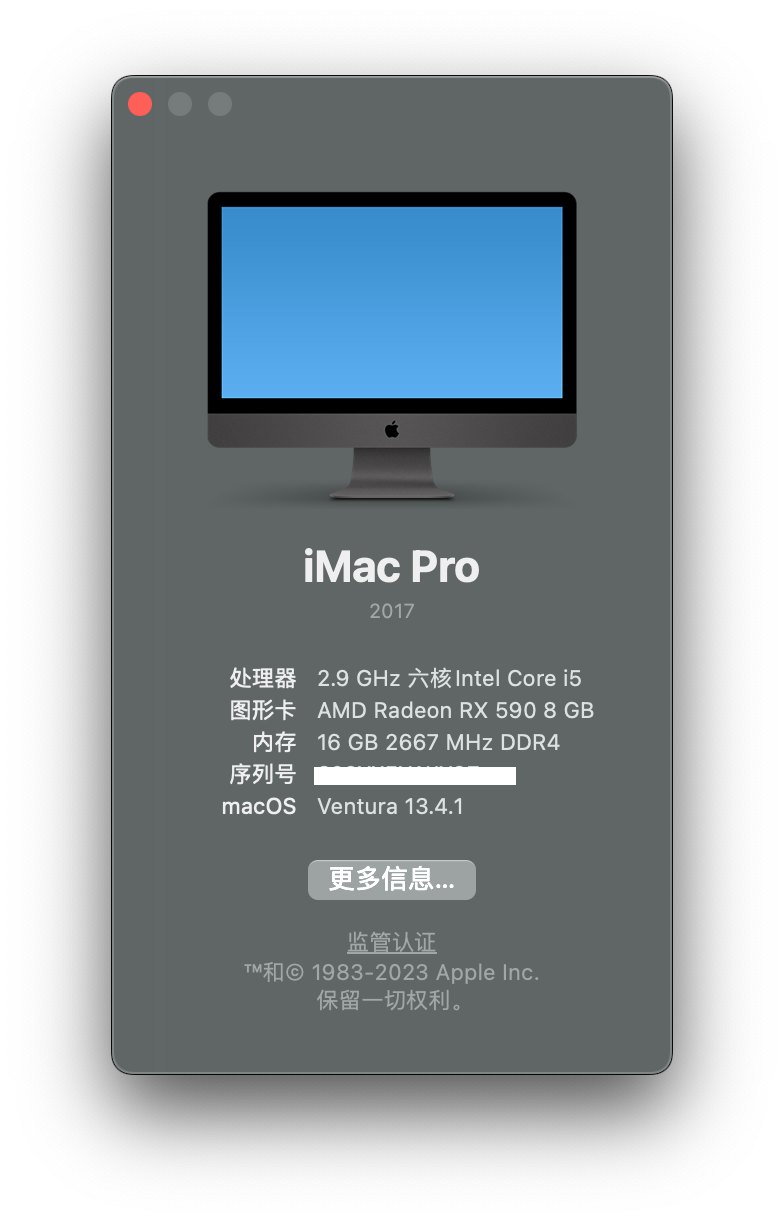
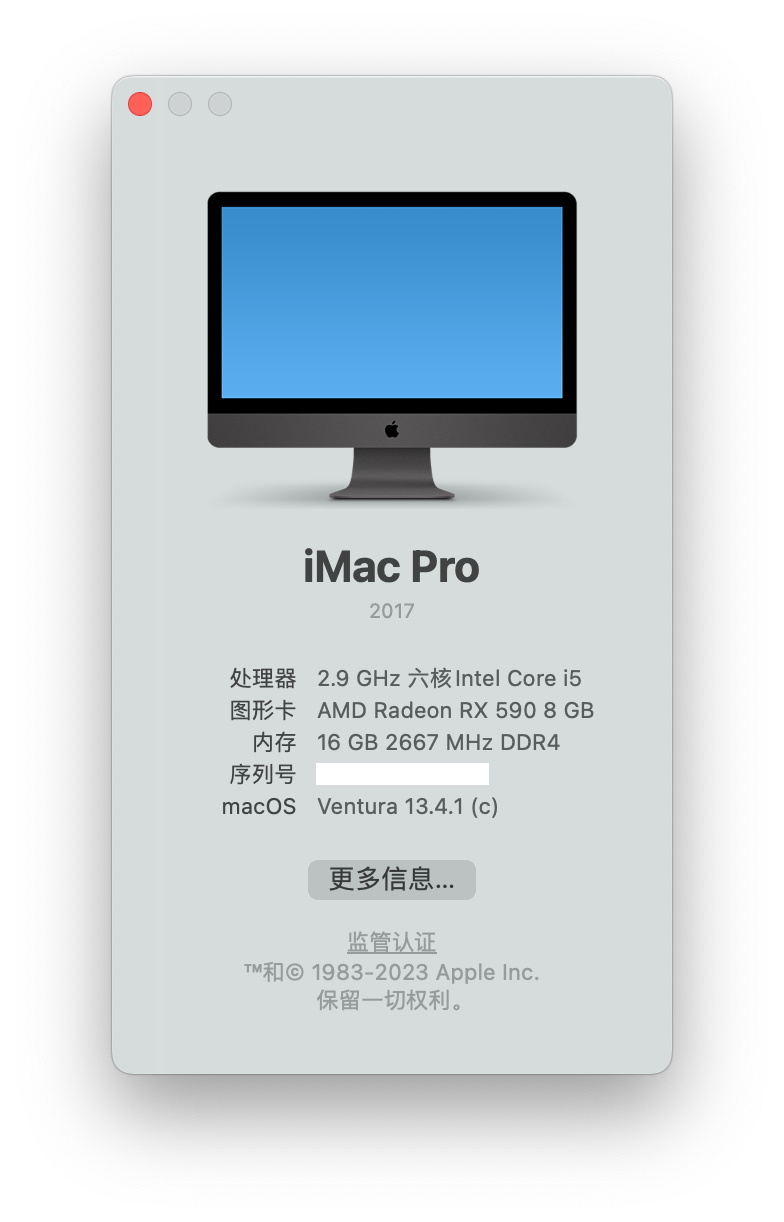
macOS 13.4.1 (c)

diff --git a/README.md b/README.md
@@ -29,7 +29,7 @@ Hackintosh OpenCore EFI</br>
 
 | EFI   | macOS             | OpenCore |     -      |
 | ----- | ----------------- | :------: | :--------: |
-| 3.4   | 13.4 ~ 13.4.1     |  0.9.2   | 2023.05.19 |
+| 3.4   | 13.4 ~ 13.4.1 (c) |  0.9.2   | 2023.05.19 |
 | 3.3   | 13.3 ~ 13.3.1 (a) |  0.9.0   | 2023.03.28 |
 | 3.2   | 13.2 ~ 13.2.1     |  0.8.8   | 2023.01.26 |
 | 3.1   | 13.1              |  0.8.7   | 2022.12.14 |
